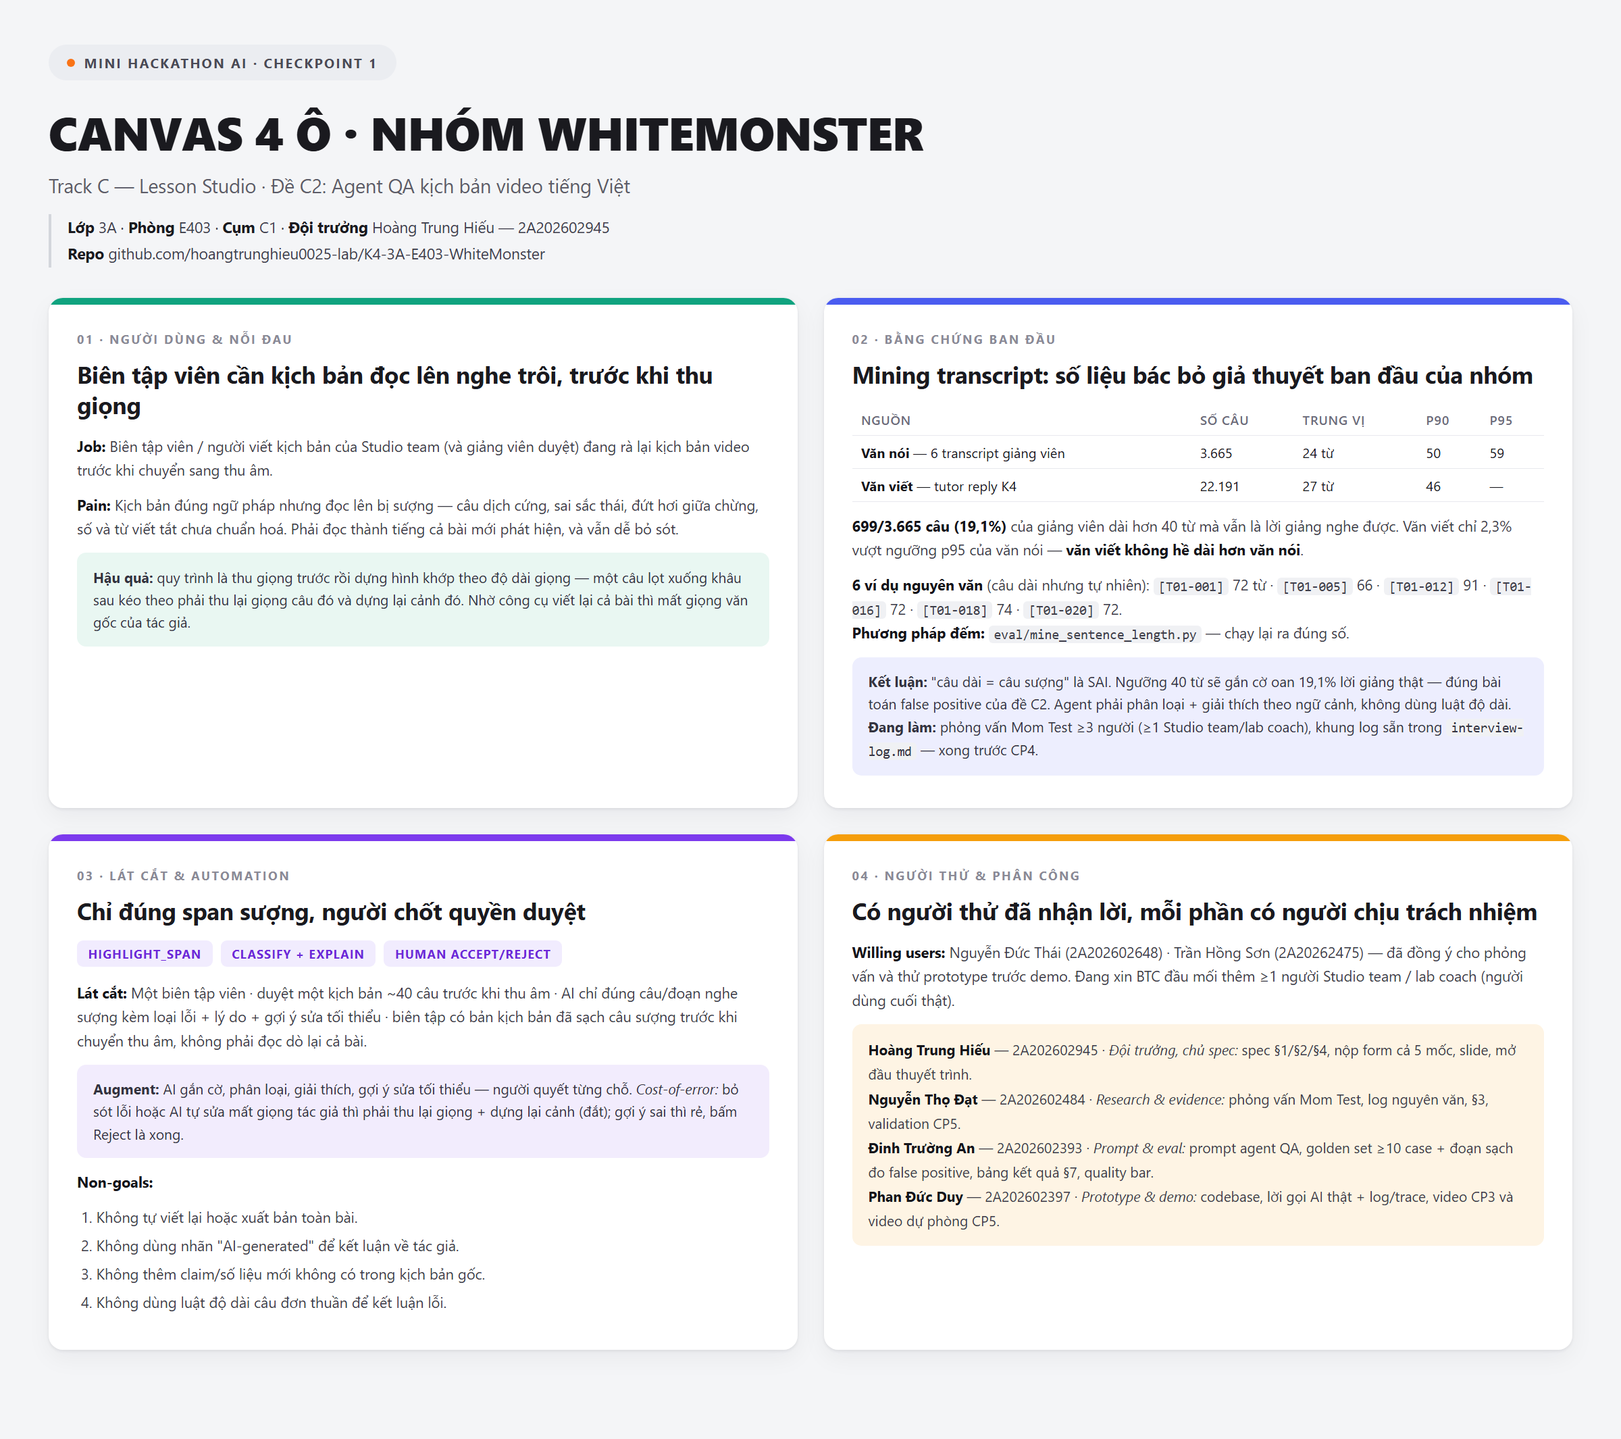
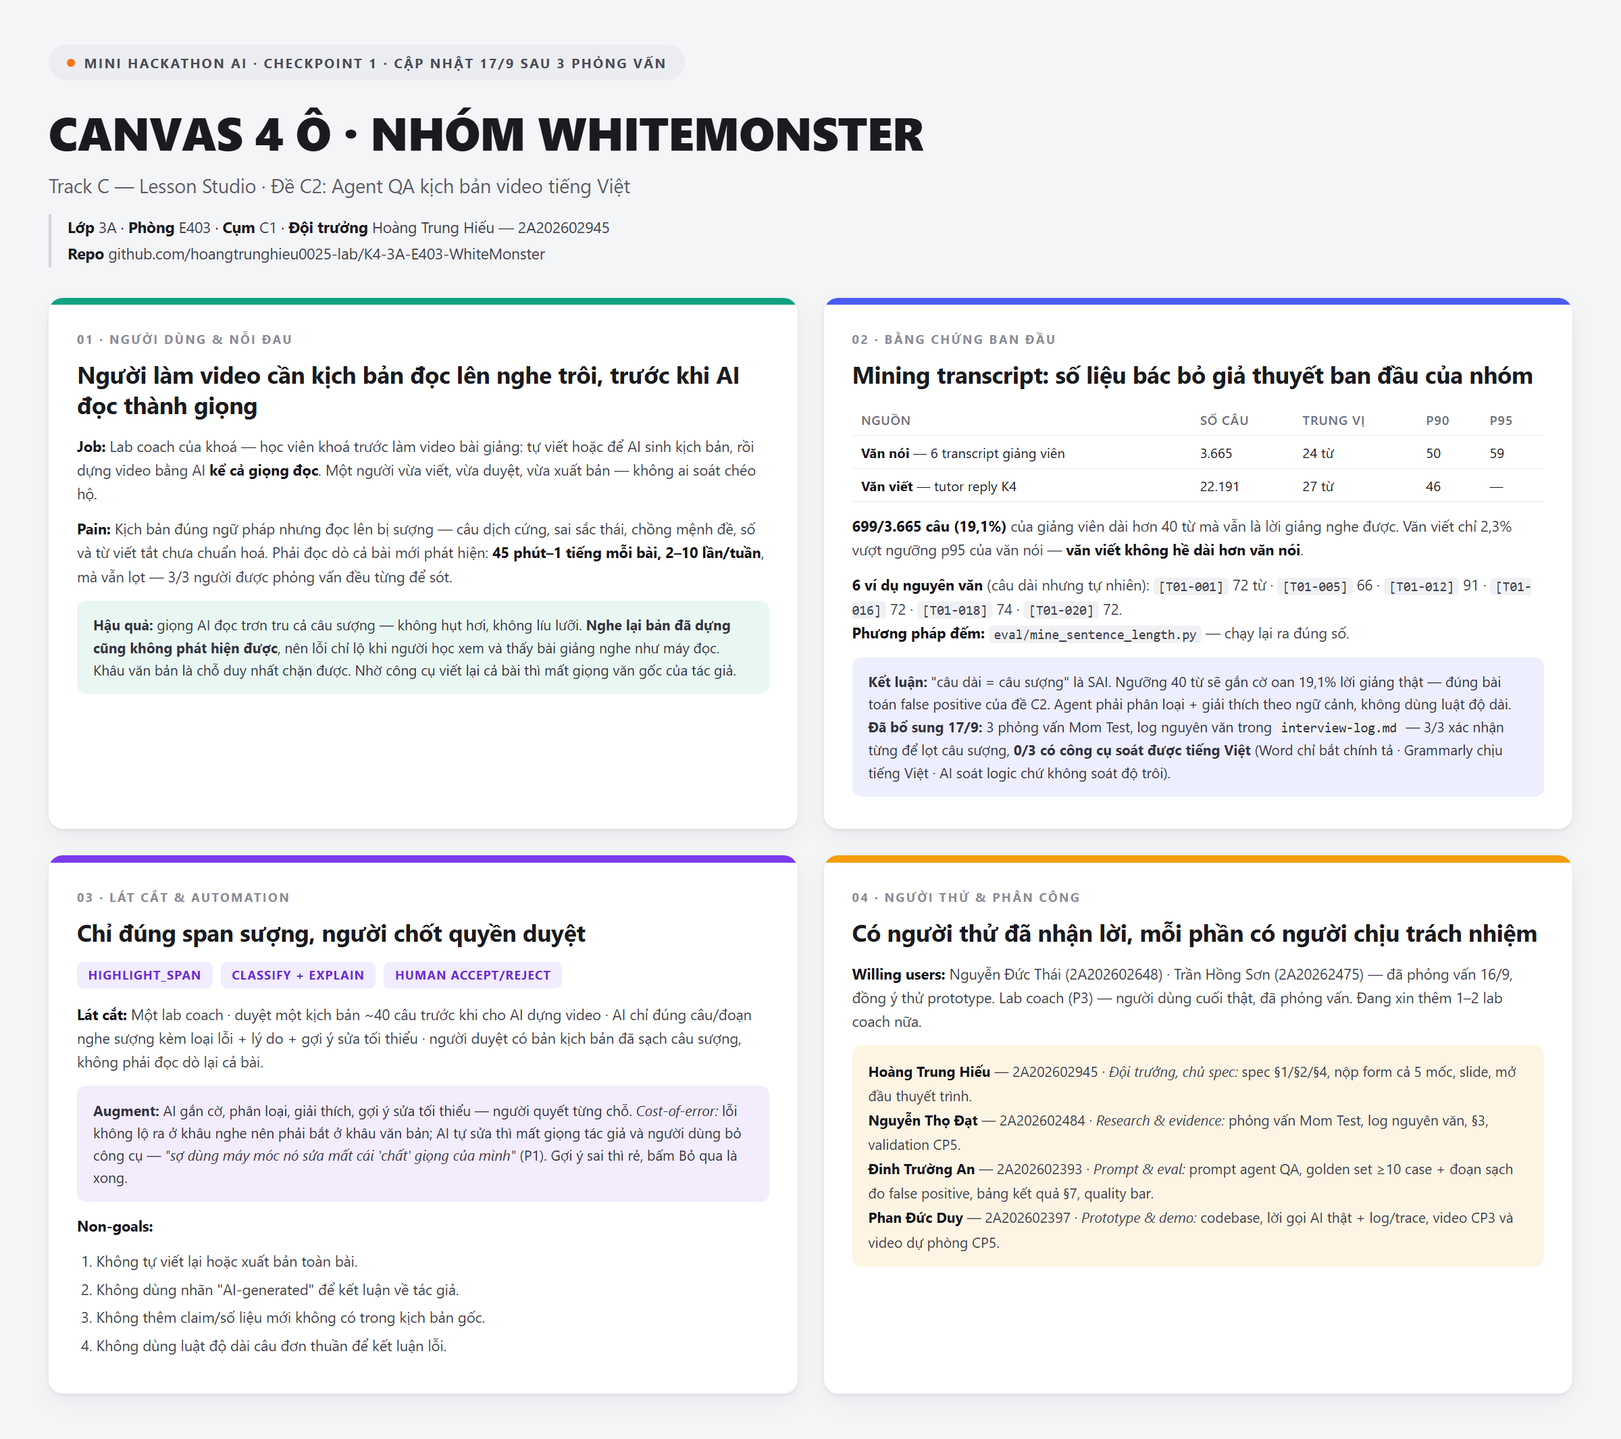
Sync canvas with corrected framing; add CP5 validation plan
- canvas.md / canvas.html / canvas.png: người dùng là lab coach dùng AI
  dựng video + AI giọng; hậu quả đổi sang "giọng máy đọc trơn cả câu
  sượng nên nghe lại bản dựng không phát hiện được"; ô 2 ghi kết quả 3
  phỏng vấn; ô 3 lát cắt + cost-of-error theo bản mới
- canvas giữ ghi chú bản CP1 gốc ghi gì và vì sao sửa
- canvas.png render lại từ canvas.html (2400x2130, như bản cũ)
- spec.md §8: kế hoạch validation CP5 đo hành vi (tỉ lệ Accept, Bỏ qua,
  Sửa tay) để kiểm assumption "người dùng chấp nhận luôn văn AI"
- §9 changelog thêm dòng đồng bộ canvas

diff --git a/canvas.html b/canvas.html
@@ -68,7 +68,7 @@
 </head>
 <body>
 
-<div class="badge">Mini Hackathon AI · Checkpoint 1</div>
+<div class="badge">Mini Hackathon AI · Checkpoint 1 · cập nhật 17/9 sau 3 phỏng vấn</div>
 <h1>Canvas 4 ô · Nhóm WhiteMonster</h1>
 <div class="sub">Track C — Lesson Studio · Đề C2: Agent QA kịch bản video tiếng Việt</div>
 <div class="meta">
@@ -82,10 +82,10 @@
     <div class="bar"></div>
     <div class="body">
       <div class="label">01 · Người dùng &amp; nỗi đau</div>
-      <h2>Biên tập viên cần kịch bản đọc lên nghe trôi, trước khi thu giọng</h2>
-      <p><b>Job:</b> Biên tập viên / người viết kịch bản của Studio team (và giảng viên duyệt) đang rà lại kịch bản video trước khi chuyển sang thu âm.</p>
-      <p><b>Pain:</b> Kịch bản đúng ngữ pháp nhưng đọc lên bị sượng — câu dịch cứng, sai sắc thái, đứt hơi giữa chừng, số và từ viết tắt chưa chuẩn hoá. Phải đọc thành tiếng cả bài mới phát hiện, và vẫn dễ bỏ sót.</p>
-      <div class="note"><b>Hậu quả:</b> quy trình là thu giọng trước rồi dựng hình khớp theo độ dài giọng — một câu lọt xuống khâu sau kéo theo phải thu lại giọng câu đó và dựng lại cảnh đó. Nhờ công cụ viết lại cả bài thì mất giọng văn gốc của tác giả.</div>
+      <h2>Người làm video cần kịch bản đọc lên nghe trôi, trước khi AI đọc thành giọng</h2>
+      <p><b>Job:</b> Lab coach của khoá — học viên khoá trước làm video bài giảng: tự viết hoặc để AI sinh kịch bản, rồi dựng video bằng AI <b>kể cả giọng đọc</b>. Một người vừa viết, vừa duyệt, vừa xuất bản — không ai soát chéo hộ.</p>
+      <p><b>Pain:</b> Kịch bản đúng ngữ pháp nhưng đọc lên bị sượng — câu dịch cứng, sai sắc thái, chồng mệnh đề, số và từ viết tắt chưa chuẩn hoá. Phải đọc dò cả bài mới phát hiện: <b>45 phút–1 tiếng mỗi bài, 2–10 lần/tuần</b>, mà vẫn lọt — 3/3 người được phỏng vấn đều từng để sót.</p>
+      <div class="note"><b>Hậu quả:</b> giọng AI đọc trơn tru cả câu sượng — không hụt hơi, không líu lưỡi. <b>Nghe lại bản đã dựng cũng không phát hiện được</b>, nên lỗi chỉ lộ khi người học xem và thấy bài giảng nghe như máy đọc. Khâu văn bản là chỗ duy nhất chặn được. Nhờ công cụ viết lại cả bài thì mất giọng văn gốc của tác giả.</div>
     </div>
   </div>
 
@@ -103,7 +103,7 @@
       <p><b>6 ví dụ nguyên văn</b> (câu dài nhưng tự nhiên): <code>[T01-001]</code> 72 từ · <code>[T01-005]</code> 66 · <code>[T01-012]</code> 91 · <code>[T01-016]</code> 72 · <code>[T01-018]</code> 74 · <code>[T01-020]</code> 72.<br>
       <b>Phương pháp đếm:</b> <code>eval/mine_sentence_length.py</code> — chạy lại ra đúng số.</p>
       <div class="note"><b>Kết luận:</b> "câu dài = câu sượng" là SAI. Ngưỡng 40 từ sẽ gắn cờ oan 19,1% lời giảng thật — đúng bài toán false positive của đề C2. Agent phải phân loại + giải thích theo ngữ cảnh, không dùng luật độ dài.<br>
-      <b>Đang làm:</b> phỏng vấn Mom Test ≥3 người (≥1 Studio team/lab coach), khung log sẵn trong <code>interview-log.md</code> — xong trước CP4.</div>
+      <b>Đã bổ sung 17/9:</b> 3 phỏng vấn Mom Test, log nguyên văn trong <code>interview-log.md</code> — 3/3 xác nhận từng để lọt câu sượng, <b>0/3 có công cụ soát được tiếng Việt</b> (Word chỉ bắt chính tả · Grammarly chịu tiếng Việt · AI soát logic chứ không soát độ trôi).</div>
     </div>
   </div>
 
@@ -113,8 +113,8 @@
       <div class="label">03 · Lát cắt &amp; automation</div>
       <h2>Chỉ đúng span sượng, người chốt quyền duyệt</h2>
       <div class="tags"><span class="tag">HIGHLIGHT_SPAN</span><span class="tag">CLASSIFY + EXPLAIN</span><span class="tag">HUMAN ACCEPT/REJECT</span></div>
-      <p><b>Lát cắt:</b> Một biên tập viên · duyệt một kịch bản ~40 câu trước khi thu âm · AI chỉ đúng câu/đoạn nghe sượng kèm loại lỗi + lý do + gợi ý sửa tối thiểu · biên tập có bản kịch bản đã sạch câu sượng trước khi chuyển thu âm, không phải đọc dò lại cả bài.</p>
-      <div class="note"><b>Augment:</b> AI gắn cờ, phân loại, giải thích, gợi ý sửa tối thiểu — người quyết từng chỗ. <i>Cost-of-error:</i> bỏ sót lỗi hoặc AI tự sửa mất giọng tác giả thì phải thu lại giọng + dựng lại cảnh (đắt); gợi ý sai thì rẻ, bấm Reject là xong.</div>
+      <p><b>Lát cắt:</b> Một lab coach · duyệt một kịch bản ~40 câu trước khi cho AI dựng video · AI chỉ đúng câu/đoạn nghe sượng kèm loại lỗi + lý do + gợi ý sửa tối thiểu · người duyệt có bản kịch bản đã sạch câu sượng, không phải đọc dò lại cả bài.</p>
+      <div class="note"><b>Augment:</b> AI gắn cờ, phân loại, giải thích, gợi ý sửa tối thiểu — người quyết từng chỗ. <i>Cost-of-error:</i> lỗi không lộ ra ở khâu nghe nên phải bắt ở khâu văn bản; AI tự sửa thì mất giọng tác giả và người dùng bỏ công cụ — <i>"sợ dùng máy móc nó sửa mất cái 'chất' giọng của mình"</i> (P1). Gợi ý sai thì rẻ, bấm Bỏ qua là xong.</div>
       <p style="margin-top:12px"><b>Non-goals:</b></p>
       <ol>
         <li>Không tự viết lại hoặc xuất bản toàn bài.</li>
@@ -130,7 +130,7 @@
     <div class="body">
       <div class="label">04 · Người thử &amp; phân công</div>
       <h2>Có người thử đã nhận lời, mỗi phần có người chịu trách nhiệm</h2>
-      <p><b>Willing users:</b> Nguyễn Đức Thái (2A202602648) · Trần Hồng Sơn (2A20262475) — đã đồng ý cho phỏng vấn và thử prototype trước demo. Đang xin BTC đầu mối thêm ≥1 người Studio team / lab coach (người dùng cuối thật).</p>
+      <p><b>Willing users:</b> Nguyễn Đức Thái (2A202602648) · Trần Hồng Sơn (2A20262475) — đã phỏng vấn 16/9, đồng ý thử prototype. Lab coach (P3) — người dùng cuối thật, đã phỏng vấn. Đang xin thêm 1–2 lab coach nữa.</p>
       <div class="note people">
         <b>Hoàng Trung Hiếu</b> — 2A202602945 · <i>Đội trưởng, chủ spec:</i> spec §1/§2/§4, nộp form cả 5 mốc, slide, mở đầu thuyết trình.<br>
         <b>Nguyễn Thọ Đạt</b> — 2A202602484 · <i>Research &amp; evidence:</i> phỏng vấn Mom Test, log nguyên văn, §3, validation CP5.<br>

diff --git a/canvas.md b/canvas.md
@@ -1,5 +1,7 @@
 # Canvas 4 ô — Checkpoint 1
 
+*(Cập nhật 17/9 sau 3 phỏng vấn Mom Test — bản nộp CP1 lúc 19:30 16/9 ghi người dùng là "biên tập viên Studio team" và quy trình thu giọng người; hỏi lại thì khoá không có đội đó, xem `spec.md` §9.)*
+
 **NHÓM:** WhiteMonster · **Lớp:** 3A · **Phòng:** E403 · **Cụm:** C1
 **TRACK:** C — Lesson Studio · **Đề:** C2 (Vietnamese Spoken-Script QA — agent review kịch bản tiếng Việt)
 **ĐỘI TRƯỞNG:** Hoàng Trung Hiếu — 2A202602945
@@ -9,13 +11,15 @@
 
 ## Ô 1 · NGƯỜI DÙNG & NỖI ĐAU
 
-**JOB:** Biên tập viên / người viết kịch bản của Studio team (và giảng viên duyệt) đang rà lại kịch bản video trước khi chuyển sang thu âm.
+**JOB:** Lab coach của khoá — học viên khoá trước làm video bài giảng: tự viết hoặc để AI sinh kịch bản, rồi dựng video bằng AI **kể cả giọng đọc**. Một người vừa viết, vừa duyệt, vừa xuất bản — không ai soát chéo hộ.
 
-**PAIN:** Kịch bản đúng ngữ pháp nhưng đọc lên bị sượng — câu dịch cứng, sai sắc thái, đứt hơi giữa chừng, số và từ viết tắt chưa chuẩn hoá. Biên tập viên phải đọc thành tiếng cả bài mới phát hiện, và vẫn dễ bỏ sót. Vì quy trình là thu giọng trước rồi dựng hình khớp theo độ dài giọng, một câu lọt xuống khâu sau kéo theo phải thu lại giọng câu đó và dựng lại cảnh đó — đắt hơn nhiều so với sửa ngay ở bước kịch bản. Cách thay thế là nhờ công cụ viết lại cả bài, nhưng như vậy mất giọng văn gốc của tác giả.
+**PAIN:** Kịch bản đúng ngữ pháp nhưng đọc lên bị sượng — câu dịch cứng, sai sắc thái, chồng mệnh đề, số và từ viết tắt chưa chuẩn hoá. Phải đọc dò cả bài mới phát hiện: **45 phút–1 tiếng mỗi bài, 2–10 lần/tuần**, mà vẫn lọt — 3/3 người được phỏng vấn đều từng để sót.
+
+**HẬU QUẢ:** giọng AI đọc trơn tru cả câu sượng — không hụt hơi, không líu lưỡi. **Nghe lại bản đã dựng cũng không phát hiện được**, nên lỗi chỉ lộ khi người học xem và thấy bài giảng nghe như máy đọc. Khâu văn bản là chỗ duy nhất chặn được. Cách thay thế là nhờ công cụ viết lại cả bài, nhưng như vậy mất giọng văn gốc của tác giả.
 
 ## Ô 2 · BẰNG CHỨNG BAN ĐẦU
 
-**MINING (chuẩn B, trên `data/vlearn-pack/` — track C cho phép thay cho khảo sát 20 người):**
+**MINING (chuẩn B, trên `data/vlearn-pack/`):**
 Đo phân bố độ dài câu của **3.665 câu văn nói tự nhiên** trong 6 transcript giảng viên.
 
 | Nguồn | Số câu | Trung vị | p90 | p95 | Dài nhất |
@@ -29,19 +33,19 @@
 **VÍ DỤ NGUYÊN VĂN** (dẫn mã đoạn, đều là câu rất dài nhưng nghe tự nhiên):
 `[T01-001]` 72 từ · `[T01-005]` 66 từ · `[T01-012]` 91 từ · `[T01-016]` 72 từ · `[T01-018]` 74 từ · `[T01-020]` 72 từ.
 
-**PHƯƠNG PHÁP ĐẾM (kiểm lại được):** `eval/mine_sentence_length.py` — lấy mọi đoạn mã `[Txx-NNN]`, bỏ đoạn `[Hoạt động lớp]`, gỡ markdown phía tutor, tách câu theo `. ! ? …`, bỏ mẩu dưới 3 từ, đếm từ theo khoảng trắng. Chạy lại ra đúng số trên. Data pack không commit vào repo theo quy định bảo mật.
+**PHƯƠNG PHÁP ĐẾM:** `eval/mine_sentence_length.py` — lấy mọi đoạn mã `[Txx-NNN]`, bỏ đoạn `[Hoạt động lớp]`, gỡ markdown phía tutor, tách câu theo `. ! ? …`, bỏ mẩu dưới 3 từ, đếm từ theo khoảng trắng. Chạy lại ra đúng số trên. Data pack không commit vào repo theo quy định bảo mật.
 
 **KẾT LUẬN:** số liệu **bác bỏ giả thuyết ban đầu** của nhóm ("câu dài = câu sượng"). Đặt ngưỡng 40 từ sẽ gắn cờ oan 19,1% lời giảng thật — đúng bài toán false positive mà đề C2 nhấn mạnh (*"một câu trơn tru không đủ để kết luận"*). Hệ quả thiết kế: agent **không được** dùng luật độ dài đơn thuần, phải phân loại lỗi và giải thích lý do gắn với ngữ cảnh, và phải đo false positive trên chính 6 câu trên.
 
-**ĐANG LÀM:** phỏng vấn Mom Test ≥3 người, trong đó ≥1 người thuộc Studio team hoặc lab coach (người dùng cuối thật). Khung 7 câu hỏi và bảng log nguyên văn đã dựng sẵn trong [`interview-log.md`](interview-log.md). Mining ở trên chứng minh *lỗi khó phân loại có tồn tại*; phỏng vấn để xác nhận *biên tập viên có thật sự đau vì nó*. Hoàn thành trước CP4.
+**ĐÃ BỔ SUNG 17/9:** 3 phỏng vấn Mom Test, log nguyên văn trong [`interview-log.md`](interview-log.md). **3/3 xác nhận** từng để lọt câu sượng · **0/3 có công cụ soát được tiếng Việt** — Word chỉ bắt chính tả, Grammarly "tiếng Việt thì chịu", AI soát logic chứ không soát độ trôi khi đọc.
 
 ## Ô 3 · LÁT CẮT & AUTOMATION
 
 **LÁT CẮT (một câu):**
-> Một biên tập viên · duyệt một kịch bản ~40 câu trước khi thu âm · AI chỉ đúng câu/đoạn nghe sượng kèm loại lỗi + lý do + gợi ý sửa tối thiểu · biên tập có bản kịch bản đã sạch câu sượng trước khi chuyển thu âm, không phải đọc dò lại cả bài.
+> Một lab coach · duyệt một kịch bản ~40 câu trước khi cho AI dựng video · AI chỉ đúng câu/đoạn nghe sượng kèm loại lỗi + lý do + gợi ý sửa tối thiểu · người duyệt có bản kịch bản đã sạch câu sượng, không phải đọc dò lại cả bài.
 
 **AUTOMATION: Augment** — AI gắn cờ, phân loại, giải thích và gợi ý sửa tối thiểu; người quyết từng chỗ bằng Accept/Reject.
-*Lý do theo cost-of-error:* bỏ sót lỗi hoặc để AI tự sửa làm mất giọng tác giả thì phải thu lại giọng và dựng lại cảnh (đắt); còn gợi ý sai thì rẻ vì biên tập bấm Reject là xong.
+*Lý do theo cost-of-error:* lỗi không lộ ra ở khâu nghe (giọng máy đọc trôi hết) nên phải bắt ở khâu văn bản; để AI tự sửa thì mất giọng tác giả và người dùng bỏ công cụ — *"sợ dùng máy móc nó sửa mất cái 'chất' giọng của mình"* (P1). Gợi ý sai thì rẻ, bấm Bỏ qua là xong.
 
 **NON-GOALS:**
 1. Không tự viết lại hoặc xuất bản toàn bài.
@@ -51,7 +55,7 @@
 
 ## Ô 4 · NGƯỜI THỬ & PHÂN CÔNG
 
-**WILLING USERS:** Nguyễn Đức Thái (2A202602648) và Trần Hồng Sơn (2A20262475) — đã đồng ý cho phỏng vấn và thử prototype trước demo. Đang xin BTC đầu mối thêm ≥1 người thuộc Studio team hoặc lab coach (người dùng cuối thật của C2).
+**WILLING USERS:** Nguyễn Đức Thái (2A202602648) và Trần Hồng Sơn (2A20262475) — đã phỏng vấn 16/9, đồng ý thử prototype. Lab coach (P3) — người dùng cuối thật, đã phỏng vấn. Đang xin thêm 1–2 lab coach nữa.
 
 **PHÂN CÔNG:**
 

diff --git a/spec.md b/spec.md
@@ -190,6 +190,20 @@ TODO: mỗi lớp ①②③④ cần ≥2 case tương ứng trong golden set §
   | Phan Đức Duy | 2A202602397 | **Prototype + demo** — `codebase/` (flow duyệt, accept/reject từng finding), lời gọi AI thật + log/trace; video CP3 và video dự phòng CP5 |
 - **Willing users:** Nguyễn Đức Thái (2A202602648) · Trần Hồng Sơn (2A20262475) — đã phỏng vấn 16/9, đồng ý thử prototype · lab coach (P3) — đã phỏng vấn, tên ở [`interview-log.md`](interview-log.md)
   TODO: xin thêm 1–2 lab coach khác — hiện chỉ P3 ở đúng quy trình AI dựng video của khoá
+- **Kế hoạch vòng validation (CP5) — để kiểm assumption nguy hiểm nhất:**
+
+  **Assumption:** kịch bản do AI viết và AI đọc, nên chủ nhân bài giảng có thể **chấp nhận luôn** giọng văn đó thay vì bỏ công sửa. Cả 3 người nói họ đang bỏ 45'–1 tiếng đọc dò, nhưng đó là lời nói — chưa quan sát được họ có thật sự sửa hay không.
+
+  **Cách kiểm (không hỏi ý kiến, chỉ đo hành vi):** đưa prototype + một kịch bản thật của chính họ, để họ tự duyệt, không hướng dẫn. Đo:
+
+  | Chỉ số | Ý nghĩa nếu thấp |
+  |---|---|
+  | **Tỉ lệ Accept / tổng finding** | Họ không thấy đáng sửa → assumption đúng, lát cắt sai |
+  | **Tỉ lệ Bỏ qua kèm lý do "không phải lỗi"** | False positive quá cao → sửa agent, không sửa lát cắt |
+  | **Có dùng Sửa tay không** | Có → họ quan tâm giọng văn, đúng như P1 Q6 |
+  | **Sau buổi thử có hỏi xin dùng tiếp không** | Tín hiệu thật, mạnh hơn mọi câu khen |
+
+  Ghi vào `validation/` kèm changelog: đổi gì sau mỗi người thử. Kết quả âm vẫn ghi đúng như thế.
 - Multi-prototype: không áp dụng.
 
 ## §9. Changelog
@@ -203,3 +217,4 @@ TODO: mỗi lớp ①②③④ cần ≥2 case tương ứng trong golden set §
 | 17/9 | Bỏ vế "dựng hình khớp độ dài giọng" khỏi lập luận cost-of-error §4 | Không ai trong 3 người nhắc tới việc dựng hình |
 | 17/9 (sau) | **Đổi job executor: không phải "biên tập viên Studio team" mà là lab coach của khoá** — học viên khoá trước làm video bằng AI, giọng TTS. Bỏ luôn vai "giảng viên duyệt kịch bản" | Hỏi lại về quy trình thật của khoá: không có Studio team, mentor là chuyên gia đi làm nên không tham gia khâu video |
 | 17/9 (sau) | **Đổi trục cost-of-error §4**: bỏ "sửa muộn thì đắt", thay bằng "giọng TTS đọc trơn cả câu sượng nên lỗi chỉ bắt được ở khâu văn bản" | Giọng là AI nên render lại gần như miễn phí — chi phí thu lại của P1 không áp dụng cho người dùng thật. P3 trả lời "5 phút là xong" hoá ra không phải ngoại lệ mà là đúng quy trình |
+| 17/9 (sau) | Đồng bộ `canvas.md` / `canvas.html` / `canvas.png` theo bản đã sửa, giữ ghi chú bản CP1 gốc ghi gì | Canvas là bản nộp CP1 nhưng để lệch với spec thì người chấm đối chiếu sẽ thấy mâu thuẫn |
